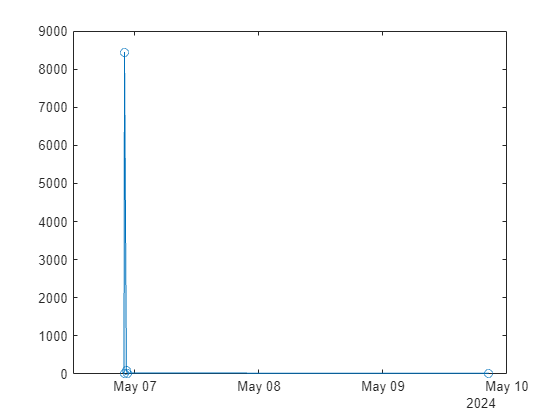
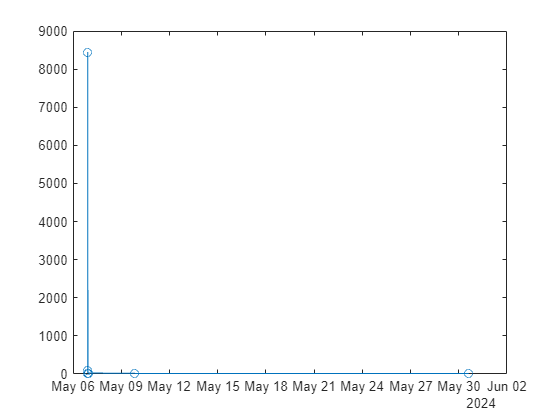
generated

Changed region(s): [[0.0911, 0.1238, 0.9411, 0.9595], [0.2125, 0.1238, 0.2429, 0.1548]]

diff --git a/report.md b/report.md
@@ -22,6 +22,7 @@ solvers
 |3|06-May-2024 22:20:06|103.1756|0.2540|541.2736|'gulley'|'678373370c5a44c8ded9859054450b2296fd572f'|
 |4|06-May-2024 22:27:42|26.0168|0.3140|161.4886|'gulley'|'7f9f69f3d432c009b2b02cfaaa6240e5bc91370b'|
 |5|09-May-2024 20:29:51|17.2069|0.3273|118.7692|'gulley'|'c522adb3e78d873913f86d789ed58b50e01aa3ed'|
+|6|30-May-2024 14:51:54|16.0719|0.3198|112.3393|'MAXPIL0T'|'a6b421d3af3542767eeb636dbcc9276dde3dbdd3'|
 
 ```matlab
 plot(solvers.computeTime,solvers.result,"-o")
